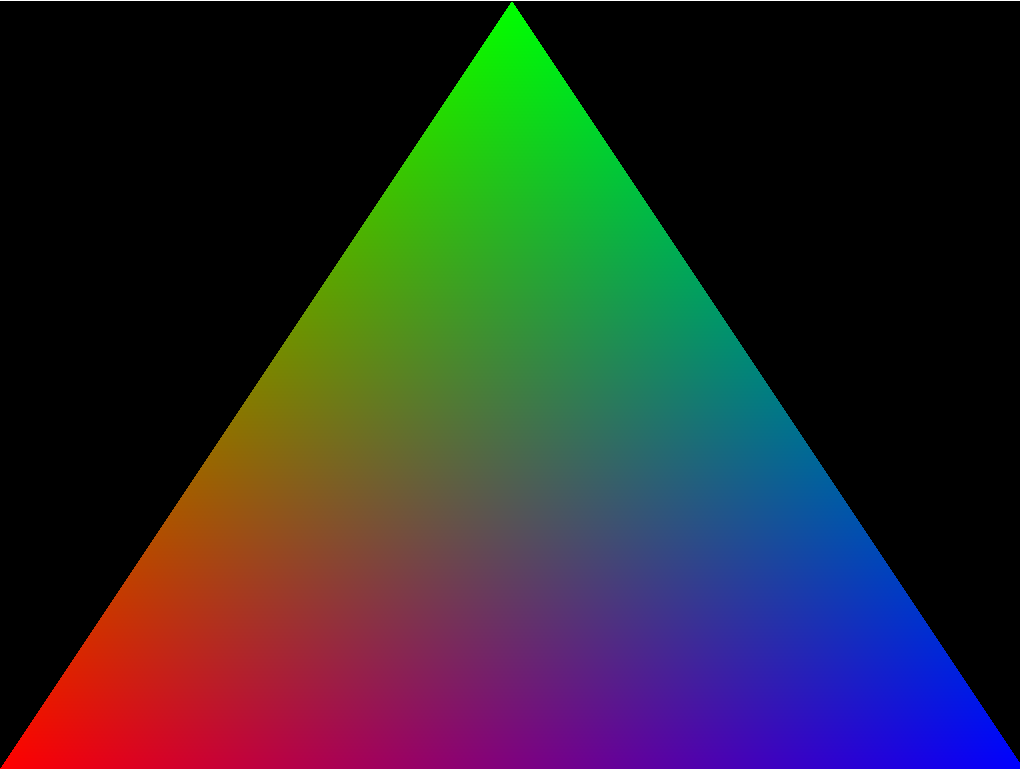
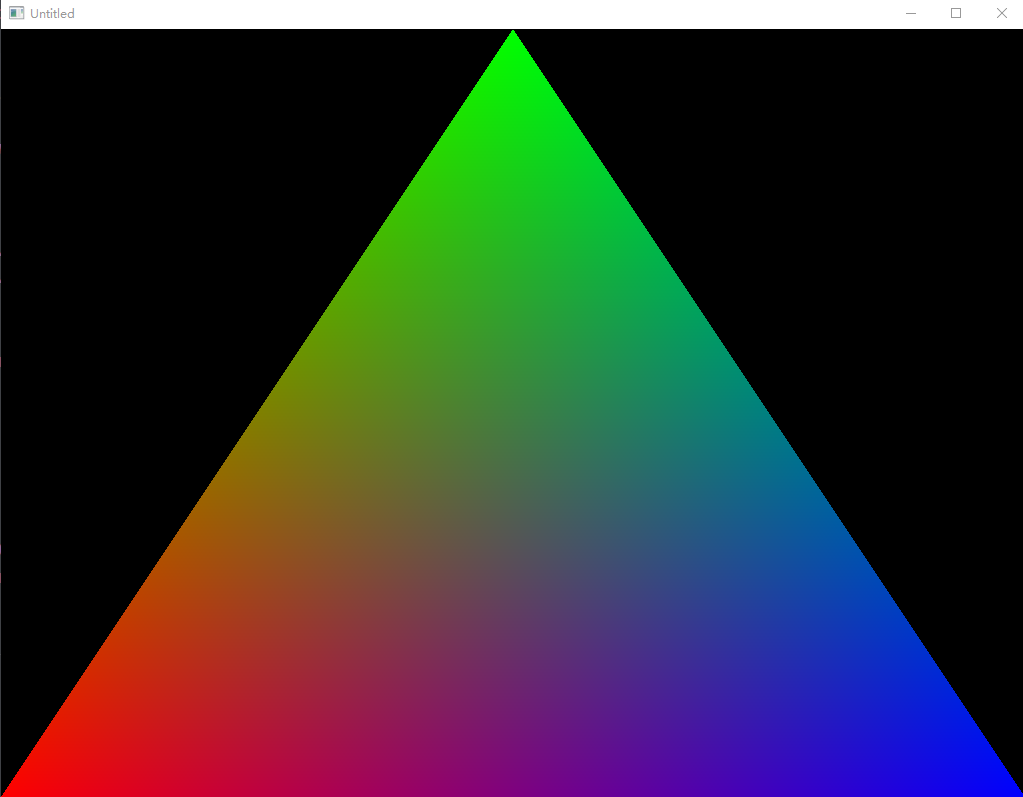
add image

diff --git a/README.md b/README.md
@@ -73,3 +73,7 @@ class TriangleApp extends Application {
 }
 
 ````
+
+Output:
+
+![Hello World Triangle output](/res/hello_world_triangle.png)
